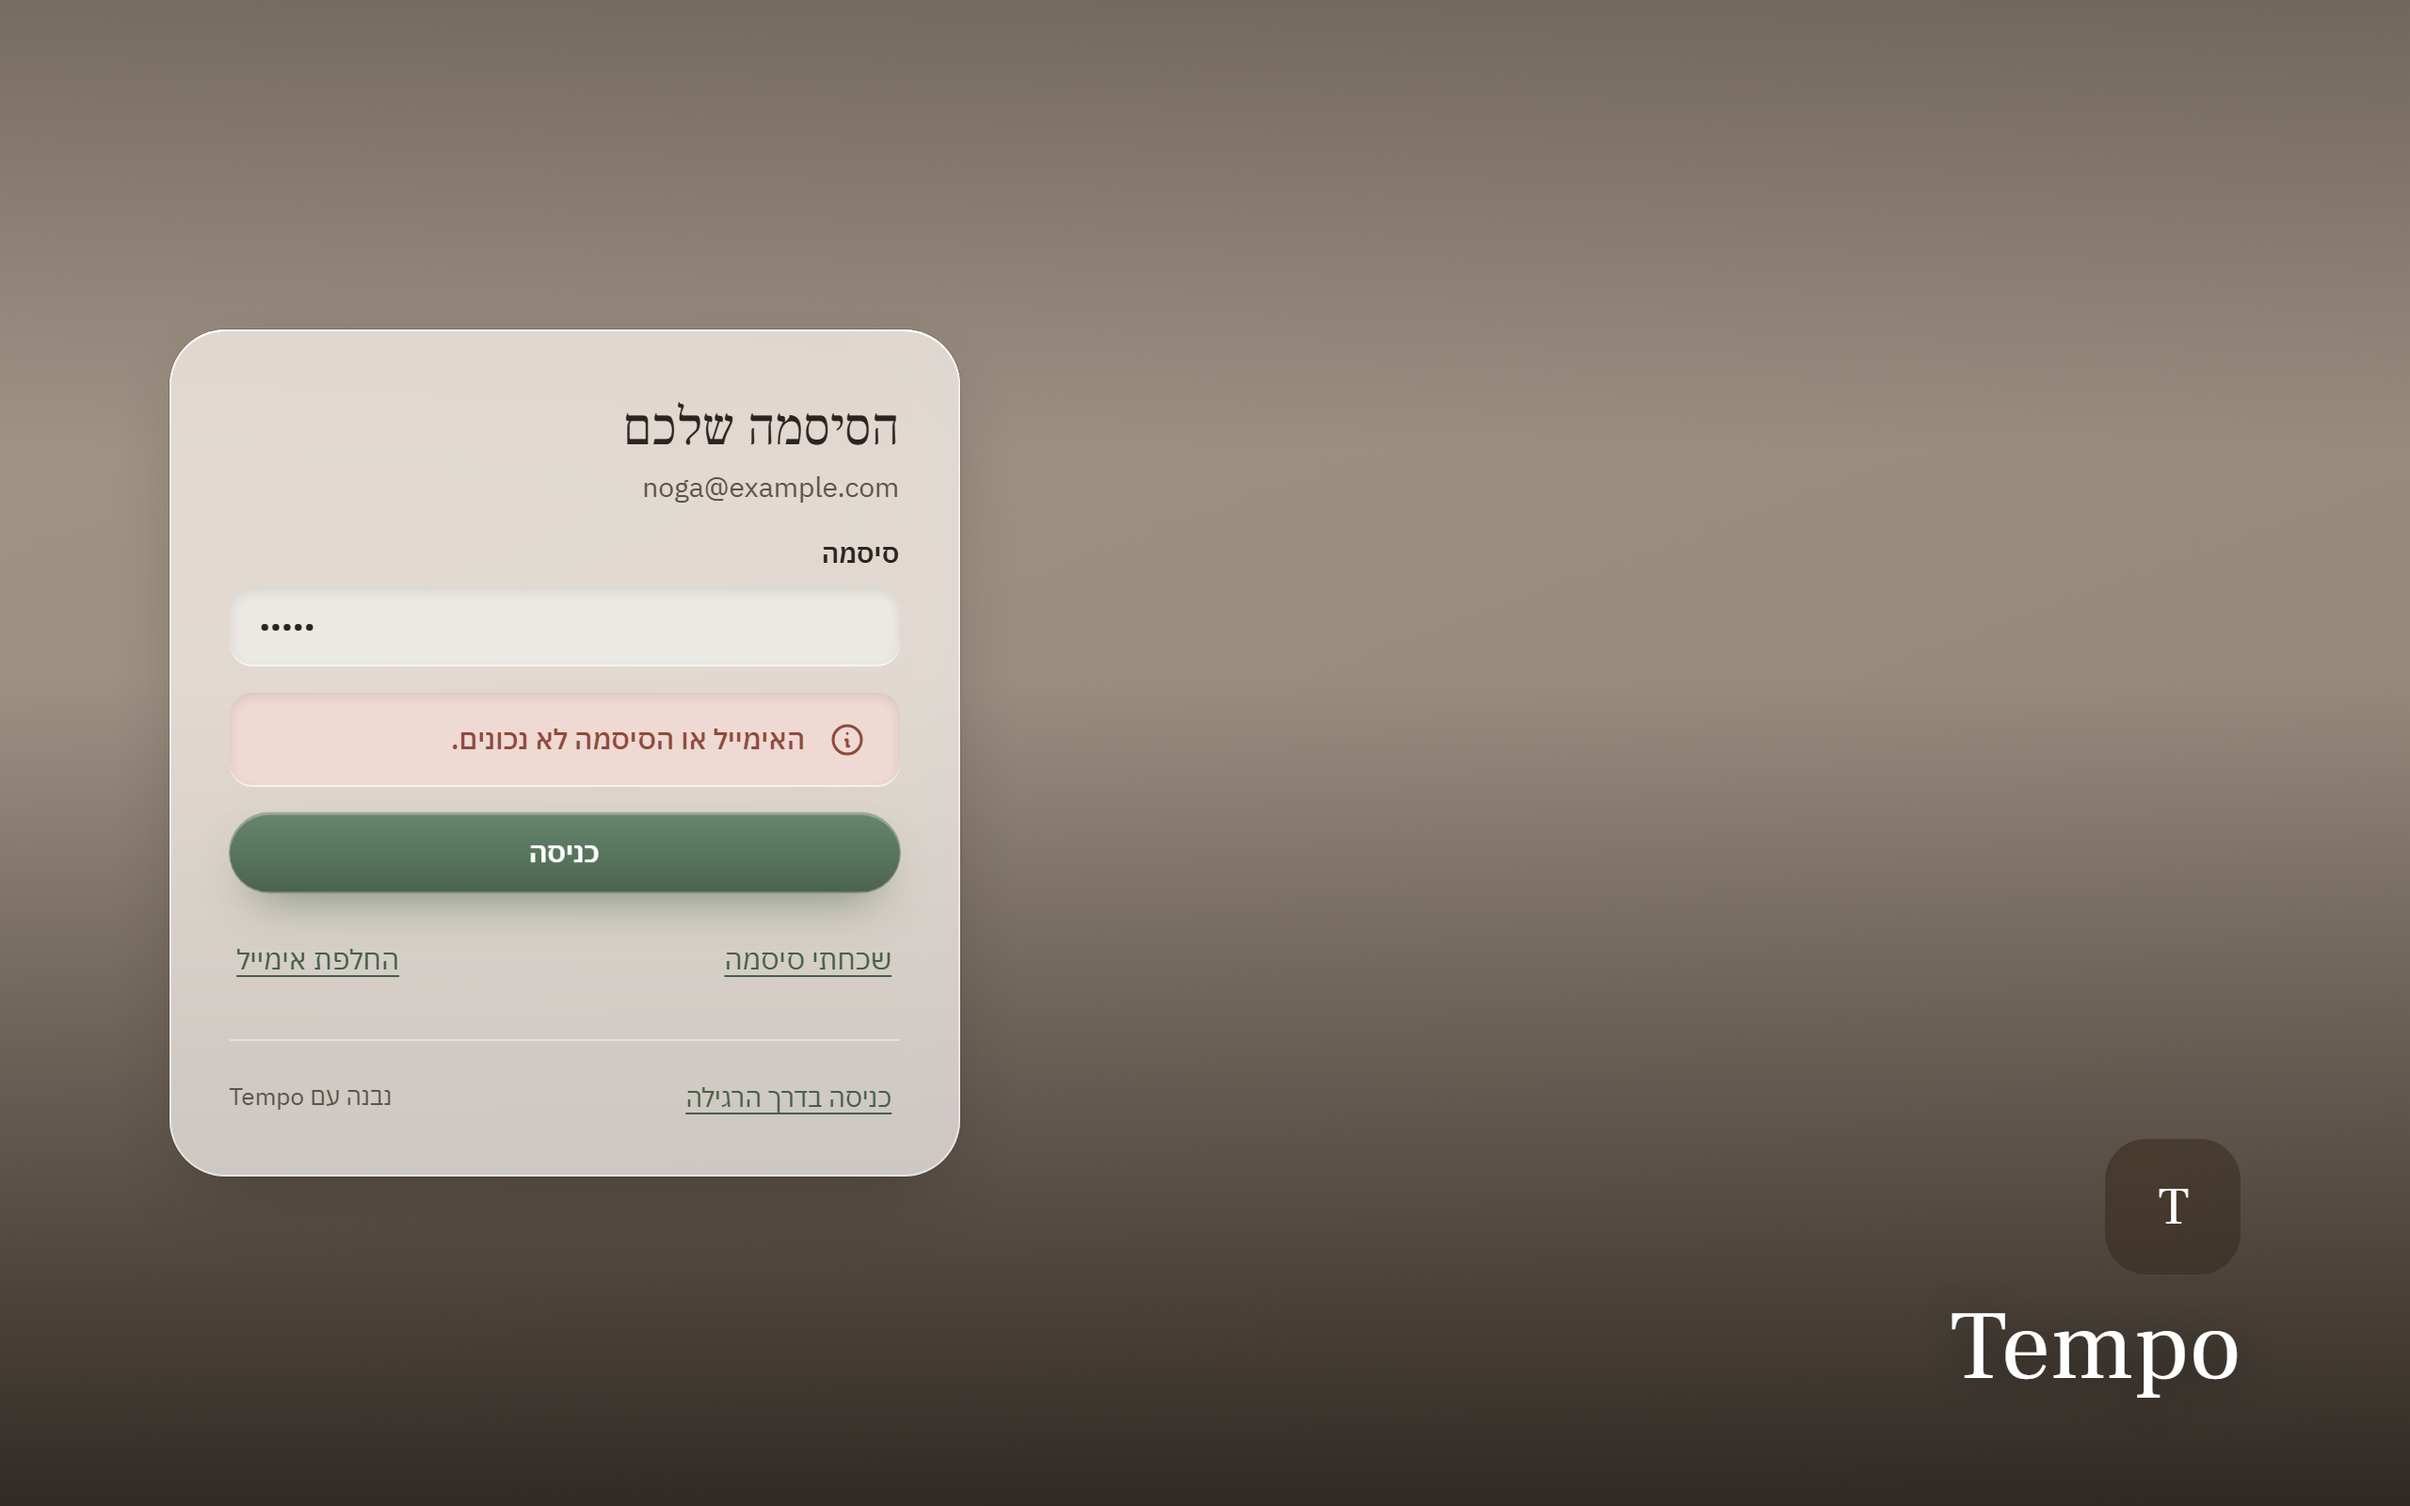
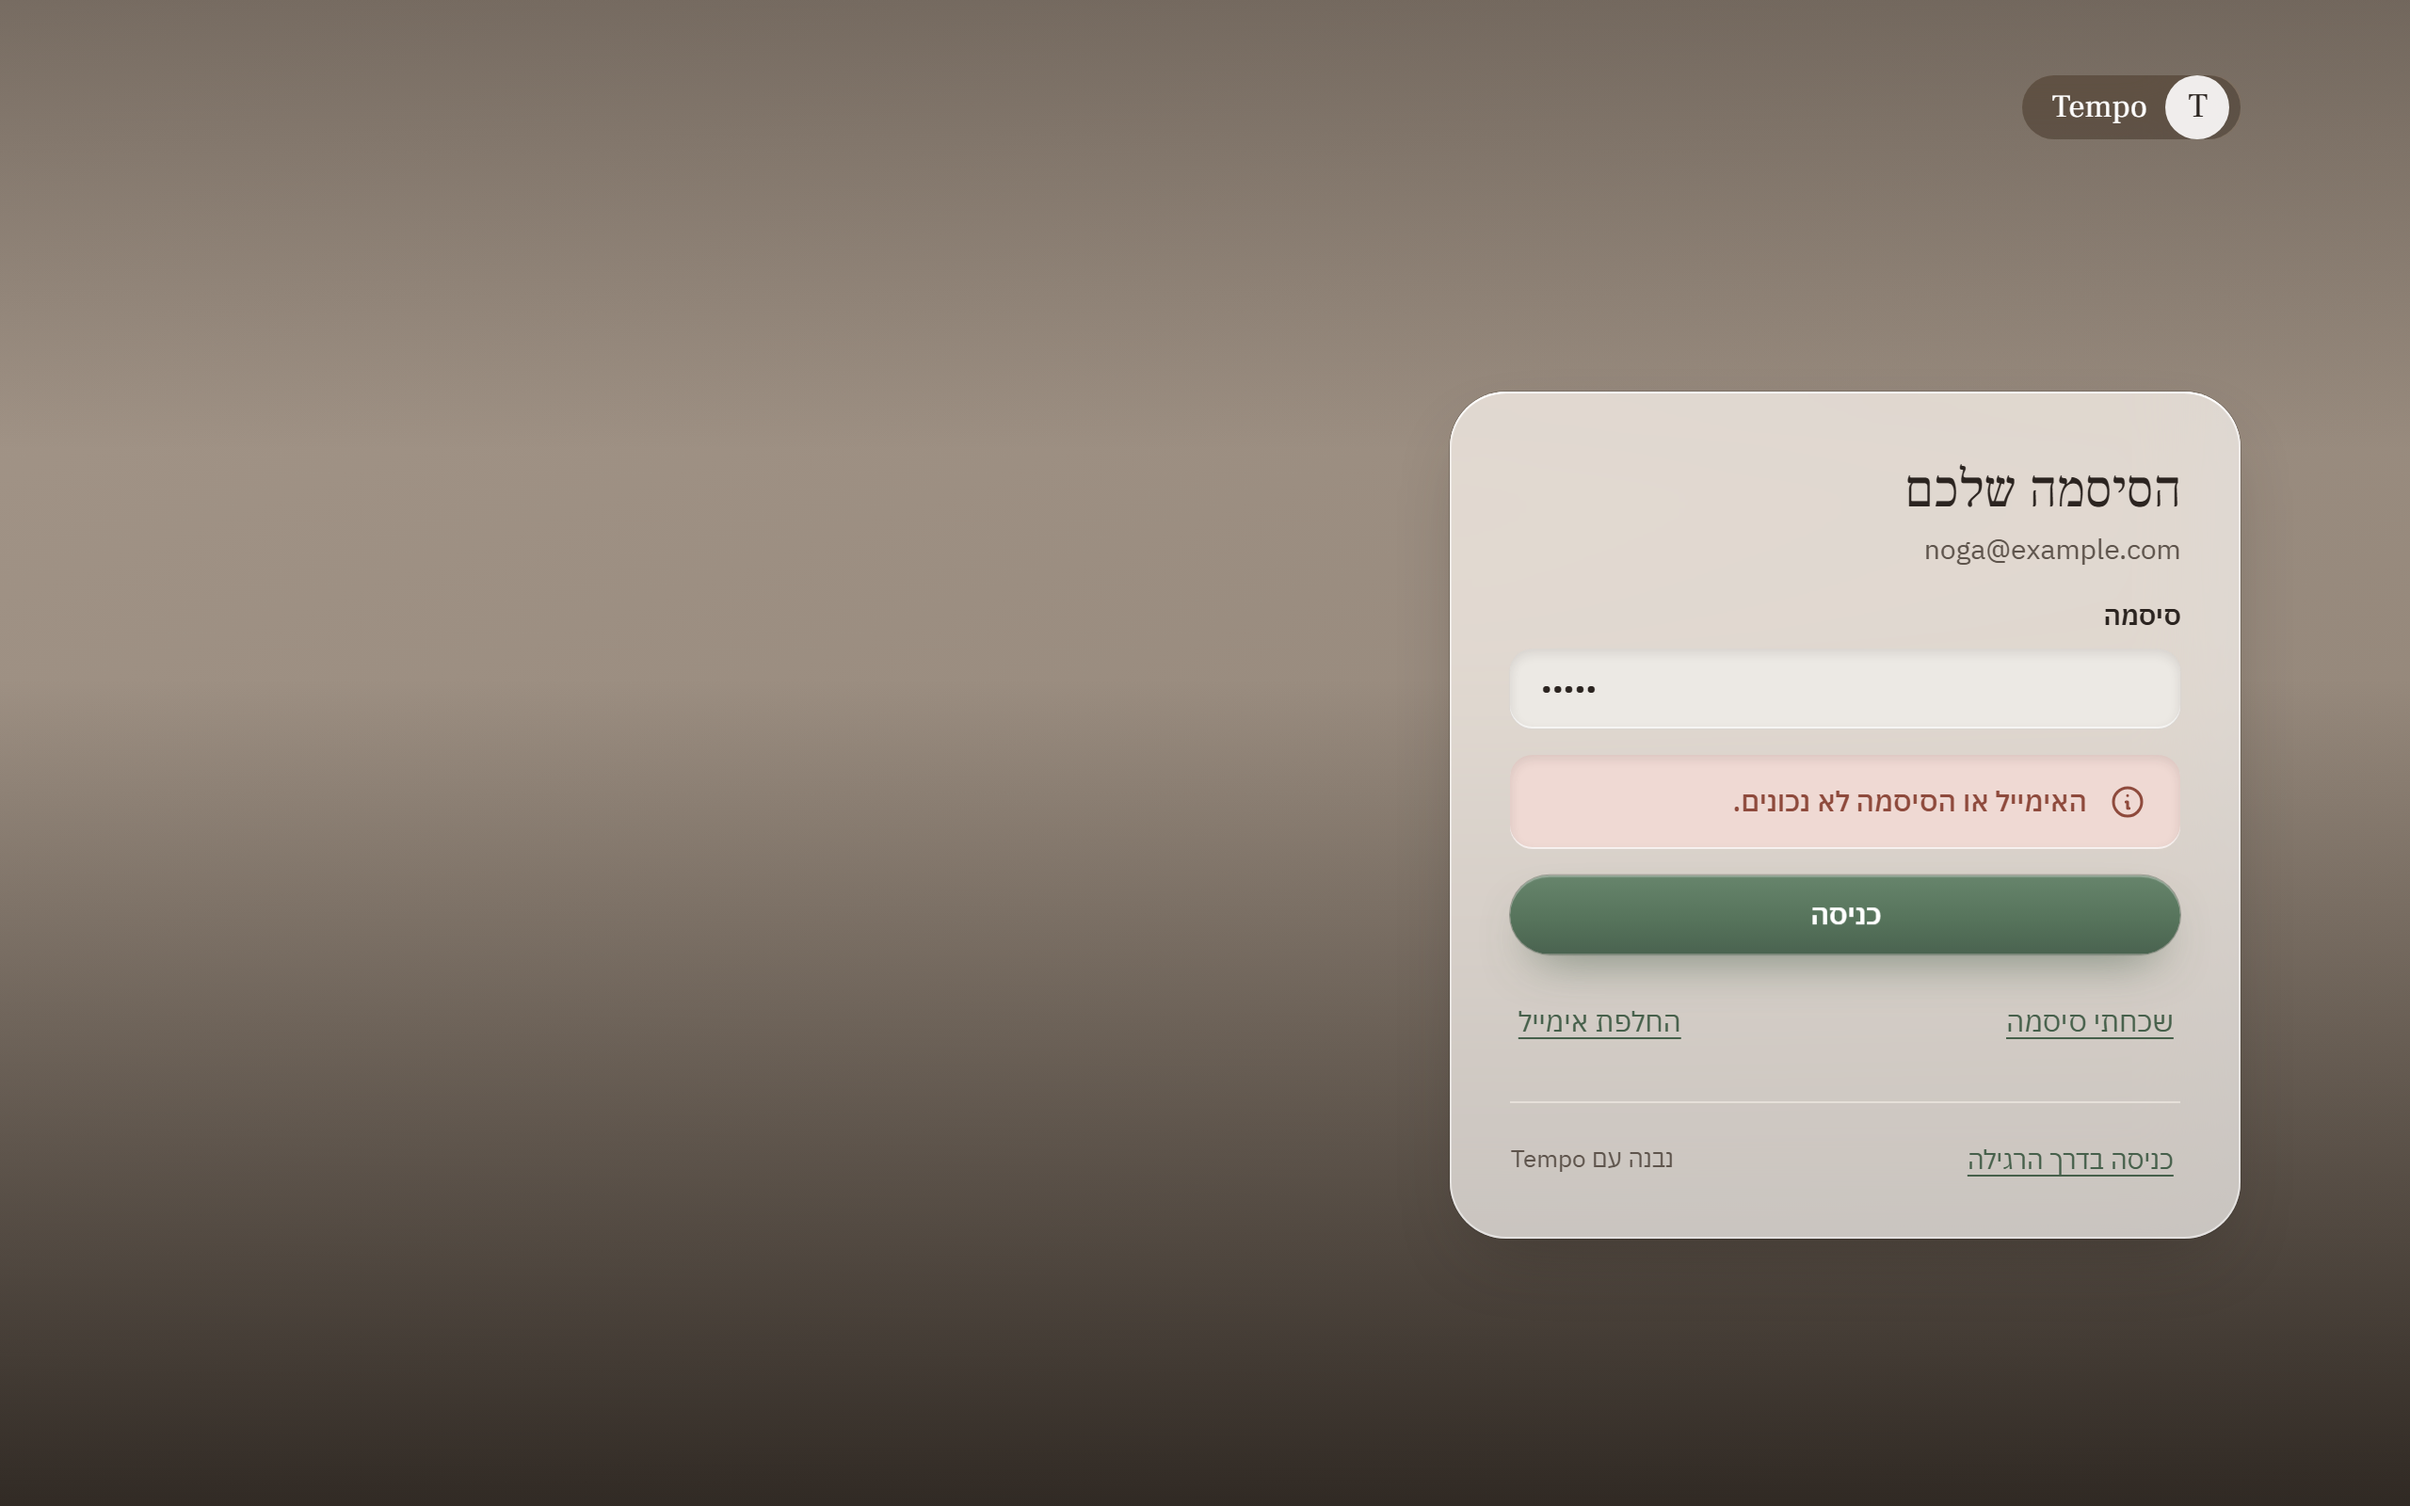
feat(client-web): align the branded sign-in to the K mockups (#400)
The studio pill on dark glass at the top, the sheet as a card on the start
side at 1280, six digit boxes over one one-time-code input, and the resend
countdown as m:ss. Screenshots retaken at 360 and 1280.

diff --git a/apps/client-web/src/auth/branded/signin.module.css b/apps/client-web/src/auth/branded/signin.module.css
@@ -26,34 +26,36 @@
   background: linear-gradient(180deg, #18130f52 0%, #18130f00 30%, #18130f00 45%, var(--scrim-photo) 100%);
 }
 
+/* The studio's pill: its mark and name on dark glass, at the top of the photo. */
 .brand {
-  display: flex;
-  flex-direction: column;
-  align-items: flex-start;
+  display: inline-flex;
+  align-items: center;
+  align-self: flex-start;
   gap: 10px;
-  padding: max(40px, env(safe-area-inset-top)) 16px 24px;
-  margin-bottom: auto;
-}
-.logo {
-  display: grid;
-  place-items: center;
-  width: 56px;
-  height: 56px;
-  border-radius: 18px;
-  object-fit: cover;
-  font-family: var(--font-display);
-  font-size: 28px;
-  color: #ffffff;
+  margin: max(16px, env(safe-area-inset-top)) 16px auto;
+  padding-inline: 6px 16px;
+  border-radius: 999px;
   background: var(--glass-dark);
   -webkit-backdrop-filter: var(--tp-glass-blur);
   backdrop-filter: var(--tp-glass-blur);
 }
+.logo {
+  display: grid;
+  place-items: center;
+  width: 34px;
+  height: 34px;
+  border-radius: 50%;
+  object-fit: cover;
+  font-family: var(--font-display);
+  font-size: 18px;
+  color: var(--ink);
+  background: #ffffffe6;
+}
 .studio {
   margin: 0;
   font-family: var(--font-display);
-  font-size: 34px;
-  line-height: 1.1;
-  text-shadow: 0 2px 18px #00000059;
+  font-size: 17px;
+  line-height: 1.2;
 }
 
 .sheet {
@@ -82,11 +84,39 @@
   font-size: 28px;
   line-height: 1.15;
 }
-.code {
+/* Six boxes drawn under one transparent input that takes the typing, the paste and the phone's code offer. */
+.codeBoxes {
+  position: relative;
+  display: grid;
+  grid-template-columns: repeat(6, 1fr);
+  gap: 8px;
+}
+.codeBox {
+  display: grid;
+  place-items: center;
+  height: 54px;
+  border: 1px solid var(--line);
+  border-radius: 14px;
+  background: #ffffffb3;
   font-variant-numeric: tabular-nums;
-  font-size: 22px;
-  letter-spacing: 0.4em;
-  text-align: center;
+  font-size: 24px;
+  color: var(--ink);
+}
+.codeBox[data-filled] {
+  border-color: var(--brand-ink);
+}
+.codeBoxes:focus-within .codeBox[data-current] {
+  border-color: var(--brand-ink);
+  box-shadow: 0 0 0 3px color-mix(in srgb, var(--brand-ink) 22%, transparent);
+}
+.codeBoxes .codeInput {
+  position: absolute;
+  inset: 0;
+  width: 100%;
+  height: 100%;
+  opacity: 0;
+  font-size: 16px;
+  cursor: text;
 }
 .links {
   display: flex;
@@ -128,32 +158,24 @@
   color: var(--ink-muted);
 }
 
-/* A computer: the photo stays the stage, the studio's name on one side and the sheet as a floating card. */
+/* A computer: the photo stays the stage, the pill on top and the sheet as a floating card on the start side. */
 @media (min-width: 900px) {
   .stage {
-    flex-direction: row;
-    align-items: center;
-    justify-content: space-between;
-    gap: 48px;
-    padding: 56px clamp(48px, 7vw, 120px);
+    display: grid;
+    grid-template-columns: 420px 1fr;
+    grid-template-rows: auto 1fr;
+    gap: 32px;
+    padding: 40px clamp(48px, 7vw, 120px);
   }
   .brand {
-    align-self: flex-end;
-    max-width: 460px;
+    grid-column: 1 / -1;
+    justify-self: start;
     margin: 0;
-    padding: 0;
-  }
-  .studio {
-    font-size: 52px;
-  }
-  .logo {
-    width: 72px;
-    height: 72px;
-    border-radius: 22px;
   }
   .sheet {
-    flex: none;
-    width: 420px;
+    grid-column: 1;
+    grid-row: 2;
+    align-self: center;
     padding: 36px 32px 20px;
     border-radius: 30px;
   }

diff --git a/apps/client-web/src/auth/branded/BrandedSignIn.tsx b/apps/client-web/src/auth/branded/BrandedSignIn.tsx
@@ -601,21 +601,37 @@ function EmailField({ value, onChange }: { value: string; onChange: (value: stri
   );
 }
 
-/** Six digits: the phone offers the code from the SMS or mail bar, and anything but digits is dropped. */
+/**
+ * Six digits shown as six boxes. One real input sits over the boxes, so the phone still offers the code from the SMS
+ * or mail bar, a paste fills all six, and anything but digits is dropped.
+ */
 function CodeField({ value, onChange }: { value: string; onChange: (value: string) => void }) {
   return (
     <Field label="קוד בן שש ספרות">
-      <Input
-        className={styles.code}
-        type="text"
-        inputMode="numeric"
-        autoComplete="one-time-code"
-        pattern="[0-9]*"
-        maxLength={6}
-        value={value}
-        onChange={(event) => onChange(event.target.value.replace(/\D/g, "").slice(0, 6))}
-        dir="ltr"
-      />
+      <div className={styles.codeBoxes} dir="ltr">
+        {Array.from({ length: 6 }, (_, index) => (
+          <span
+            key={index}
+            className={styles.codeBox}
+            data-filled={index < value.length || undefined}
+            data-current={index === Math.min(value.length, 5) || undefined}
+            aria-hidden="true"
+          >
+            {value[index] ?? ""}
+          </span>
+        ))}
+        <Input
+          className={styles.codeInput}
+          type="text"
+          inputMode="numeric"
+          autoComplete="one-time-code"
+          pattern="[0-9]*"
+          maxLength={6}
+          value={value}
+          onChange={(event) => onChange(event.target.value.replace(/\D/g, "").slice(0, 6))}
+          dir="ltr"
+        />
+      </div>
     </Field>
   );
 }
@@ -675,7 +691,7 @@ function ResendButton({ onResend, disabled }: { onResend: () => void; disabled: 
   }, [left]);
   return (
     <button type="button" className={styles.link} onClick={onResend} disabled={disabled || left > 0}>
-      {left > 0 ? `שלחו שוב בעוד ${left} שניות` : "שלחו שוב"}
+      {left > 0 ? `שלחו שוב בעוד ${Math.floor(left / 60)}:${String(left % 60).padStart(2, "0")}` : "שלחו שוב"}
     </button>
   );
 }
